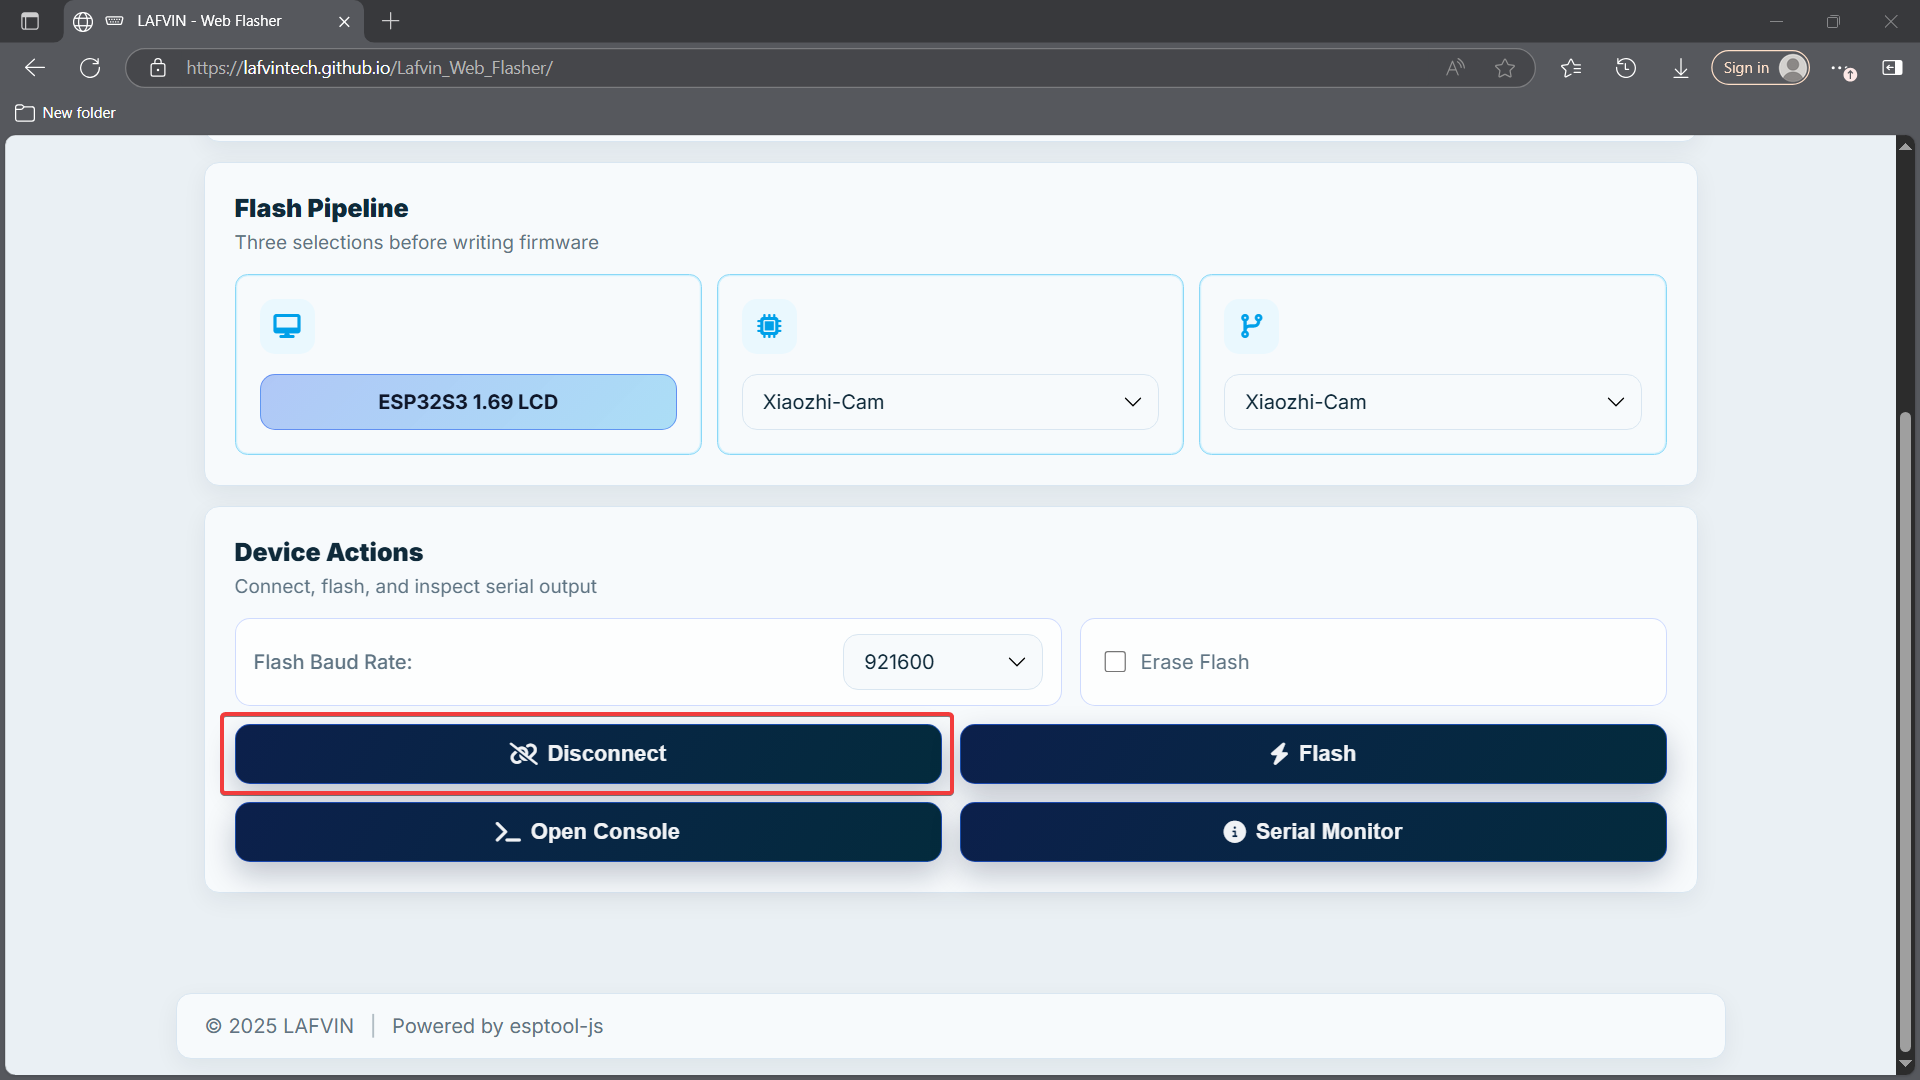
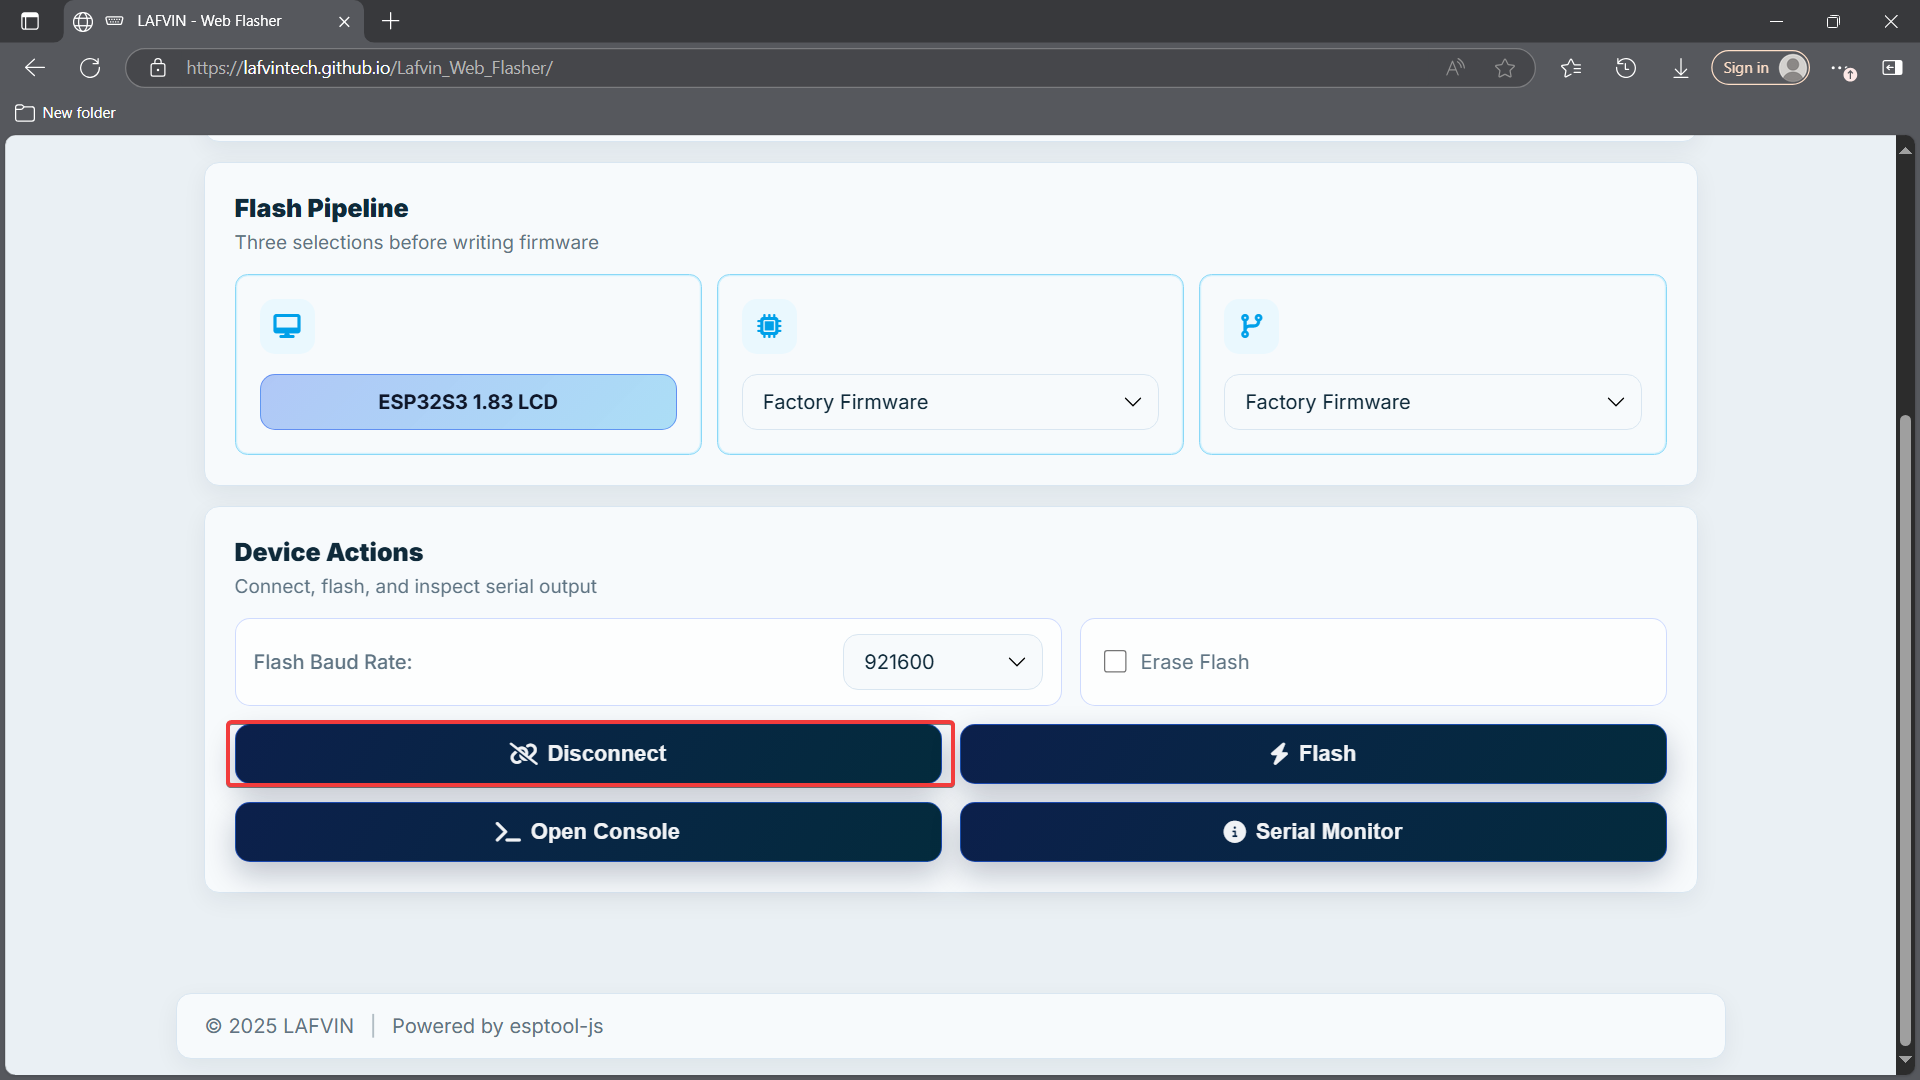
update docs

Changed region(s): [[0.0938, 0.6417, 0.5, 0.7639], [0.6562, 0.3667, 0.7188, 0.3972], [0.4062, 0.3667, 0.4688, 0.3972]]

diff --git a/docs/source/Tutorial/1.quick_start.rst b/docs/source/Tutorial/1.quick_start.rst
@@ -1,113 +1,141 @@
 .. _quick_start:
 
-1. 快速入门
-===========
+1. Quick Start
+==============
 
-本章用于帮助你在收到开发板后，快速确认 ESP32-S3 1.83-inch LCD 是否可以正常工作。
+This chapter helps you quickly check whether the ESP32-S3 1.83-inch LCD
+Development Board is working properly after you receive it.
 
-开发板出厂前通常已经预置出厂测试固件。上电后，屏幕会显示开发板的基础测试信息，
-例如 SD 卡容量、Flash 大小、传感器数据、无线扫描结果、背光等级等内容。通过这些
-信息，你可以先确认屏幕、存储、传感器、无线功能和背光控制是否正常。
+The board is usually preloaded with factory test firmware before shipping.
+After power-on, the LCD shows basic test information, such as SD card capacity,
+Flash size, sensor data, Wi-Fi scan results, backlight level, and other status
+information. These items help you confirm that the display, storage, sensor,
+wireless functions, and backlight control are working.
 
 .. note::
-   本章只是快速入门，用于完成开箱验证和固件体验。如果你想学习完整开发流程，请继续阅读
-   :ref:`Arduino 教程 <arduino_tutorial>`。
+   This chapter is only a quick start for unpacking, functional checking, and
+   firmware testing. To learn the full development workflow, continue with the
+   :ref:`Arduino Tutorial <arduino_tutorial>`.
 
-你可以选择的路径
+Choose Your Path
 ----------------
 
 .. list-table::
    :header-rows: 1
    :widths: 30 45 25
 
-   * - 情况
-     - 建议操作
-     - 跳转
-   * - 新收到的开发板，屏幕可以正常显示测试信息
-     - 先查看出厂测试固件，确认开发板功能是否正常。
-     - 继续阅读本章
-   * - 屏幕没有显示出厂测试界面，或你想恢复出厂测试固件
-     - 使用在线烧录工具重新烧录出厂固件，再验证开发板功能。
+   * - Situation
+     - Recommended Action
+     - Link
+   * - The newly received board displays the factory test screen normally.
+     - Check the factory test firmware first and confirm that the main board
+       functions work properly.
+     - Continue reading this chapter
+   * - The screen does not show the factory test interface, or you want to
+       restore the factory test firmware.
+     - Use the online flashing tool to reflash the factory firmware, then check
+       the board again.
      - :ref:`online_flasher`
-   * - 你想体验其他官方固件
-     - 使用在线烧录工具选择其他固件并烧录。
+   * - You want to try other official firmware.
+     - Use the online flashing tool to select and flash another firmware.
      - :ref:`online_flasher`
 
-准备工作
---------
+Preparation
+-----------
 
-* 使用 USB Type-C 数据线连接开发板。仅供电线可以点亮开发板，但不能用于烧录或串口通信。
-* 如果需要查看串口日志，请确认电脑已经识别到开发板串口。
-* 如果要使用在线烧录工具，请使用支持 Web Serial API 的 Chrome 或 Edge 浏览器。
-* 如果要测试 SD 卡相关信息，请插入套件中附带的 1 GB TF 卡。
+* Connect the board with a USB Type-C data cable. A charging-only cable can
+  power the board, but it cannot be used for flashing or serial communication.
+* If you need to view serial logs, make sure the computer can detect the board's
+  serial port.
+* If you want to use the online flashing tool, use Chrome, Edge, or another
+  browser that supports the Web Serial API.
+* If you want to check SD card information, insert the 1 GB TF card included in
+  the kit.
 
-步骤 1：连接开发板
-------------------
+Step 1: Connect the Board
+-------------------------
 
-1. 使用 USB Type-C 数据线将开发板连接到电脑。
-2. 等待开发板上电启动。
-3. 观察 1.83 英寸 LCD 屏幕是否点亮。
-4. 如果开发板没有立即启动，可以按一次 **RST** 按键重新启动。
+1. Connect the board to your computer with a USB Type-C data cable.
+2. Wait for the board to power on and boot.
+3. Check whether the 1.83-inch LCD turns on.
+4. If the board does not start immediately, press the **RST** button once to
+   restart it.
 
-预期结果
-~~~~~~~~
+Expected Result
+~~~~~~~~~~~~~~~
 
-屏幕应显示出厂测试固件界面。不同批次的固件界面可能略有差异，但通常会包含以下
-一项或多项信息：
+The screen should show the factory test firmware interface. The interface may
+vary slightly between firmware batches, but it usually includes one or more of
+the following items:
 
-* SD 卡容量或 SD 卡检测状态
-* Flash 容量
-* QMI8658A 传感器数据
-* Wi-Fi 无线扫描结果
-* 背光等级或背光调节状态
+* SD card capacity or SD card detection status
+* Flash capacity
+* QMI8658A sensor data
+* Wi-Fi scan results
+* Backlight level or backlight adjustment status
 
-如果这些信息可以正常显示，说明开发板的主要板载功能已经可以工作。
+If this information is displayed correctly, the main onboard functions of the
+development board are working.
 
-步骤 2：恢复出厂测试固件
-------------------------
+Step 2: Restore the Factory Test Firmware
+-----------------------------------------
 
-如果开发板没有显示出厂测试界面，或者你已经烧录过其他程序并想恢复出厂状态，可以使用
-:ref:`online_flasher` 重新烧录出厂测试固件。
+If the board does not show the factory test interface, or if you have already
+flashed another program and want to restore the factory state, use the
+:ref:`online_flasher` to reflash the factory test firmware.
 
-在线烧录适合以下场景：
+Online flashing is suitable for the following situations:
 
-* 恢复出厂测试固件
-* 验证开发板功能是否正常
-* 快速体验官方提供的其他固件
-* 在不安装 Arduino IDE 或 ESP-IDF 的情况下烧录固件
+* Restoring the factory test firmware
+* Checking whether the board functions work properly
+* Quickly trying other official firmware
+* Flashing firmware without installing Arduino IDE or ESP-IDF
 
 .. warning::
-   烧录新固件会覆盖开发板中当前运行的程序。如果你需要保留当前程序，请先确认你拥有对应的
-   源代码或固件文件。
+   Flashing new firmware overwrites the program currently running on the board.
+   If you need to keep the current program, make sure you already have the
+   corresponding source code or firmware file.
 
-步骤 3：进入正式课程
---------------------
+Step 3: Continue with the Tutorials
+-----------------------------------
 
-完成快速验证后，你可以根据自己的开发方式选择后续课程：
+After the quick check is complete, choose the next tutorial according to your
+development path:
 
-* 如果你是初学者，或希望快速上传示例程序，请阅读 :ref:`Arduino 教程 <arduino_tutorial>`。
-* 如果你只想体验不同功能固件，可以继续使用 :ref:`online_flasher` 选择并烧录其他固件。
+* If you are a beginner, or if you want to upload example programs quickly,
+  read the :ref:`Arduino Tutorial <arduino_tutorial>`.
+* If you only want to try different firmware functions, continue using the
+  :ref:`online_flasher` to select and flash other firmware.
 
-常见问题
---------
+FAQ
+---
 
-**屏幕没有显示内容**
+**The screen does not show anything**
 
-* **现象**：连接 USB 后，LCD 没有点亮或没有显示测试界面。
-* **可能原因**：USB 线供电不稳定、开发板未正常启动、出厂固件被覆盖。
-* **解决方法**：更换 USB 数据线，按一次 **RST**，或使用 :ref:`online_flasher`
-  恢复出厂测试固件。
+* **Symptom**: After connecting USB, the LCD does not turn on or does not show
+  the factory test interface.
+* **Possible causes**: The USB cable cannot provide stable power, the board did
+  not boot normally, or the factory firmware has been overwritten.
+* **Solution**: Use another USB data cable, press **RST** once, or restore the
+  factory test firmware with the :ref:`online_flasher`.
 
-**电脑没有识别到串口**
+**The computer does not detect a serial port**
 
-* **现象**：设备管理器或开发工具中没有出现可用串口。
-* **可能原因**：使用了仅供电 USB 线、USB 驱动未安装、USB 口接触不良。
-* **解决方法**：更换 USB Type-C 数据线，尝试其他 USB 接口，并参考 :ref:`preparation`
-  检查开发环境与驱动安装步骤。
+* **Symptom**: No available serial port appears in Device Manager or in the
+  development tool.
+* **Possible causes**: A charging-only USB cable is being used, the USB driver
+  is not installed, or the USB connection is unstable.
+* **Solution**: Use another USB Type-C data cable, try another USB port, and
+  refer to :ref:`preparation` to check the development environment and driver
+  installation steps.
 
-**在线烧录无法连接开发板**
+**The online flasher cannot connect to the board**
 
-* **现象**：浏览器中无法选择串口，或点击连接后失败。
-* **可能原因**：浏览器不支持 Web Serial API、串口被其他软件占用、开发板未进入可烧录状态。
-* **解决方法**：使用 Chrome 或 Edge 浏览器，关闭串口监视器等占用串口的软件；如果仍然失败，
-  按住 **BOOT**，短按 **RST**，松开 **BOOT** 后重新连接并烧录。
+* **Symptom**: The browser cannot select a serial port, or the connection fails
+  after you click Connect.
+* **Possible causes**: The browser does not support the Web Serial API, the
+  serial port is being used by another program, or the board is not in a
+  flashable state.
+* **Solution**: Use Chrome or Edge, close programs that may be using the serial
+  port, such as Serial Monitor. If the problem persists, hold **BOOT**, press
+  **RST** once, release **BOOT**, then reconnect and flash again.

diff --git a/docs/source/Preparation/download_code.rst b/docs/source/Preparation/download_code.rst
@@ -9,14 +9,14 @@ any local libraries required by the ESP32-S3 1.83-inch LCD Development Board.
 
 You can visit our repository to download the code for our course this time.
 
-`Code Repository <https://github.com/lafvintech/LAFVIN-ESP32-S3-Multimedia-Kit.git>`_
+`Code Repository <https://github.com/lafvintech/LAFVIN_ESP32S3_1.83_LCD.git>`_
 
 .. image:: img/download_code.png
 
 Alternatively, you can directly access this (link) in your browser, and it will automatically download the code as a ZIP file.
 
-* :download:`Download Source Code (ZIP) <https://github.com/lafvintech/LAFVIN-ESP32-S3-Multimedia-Kit/archive/refs/heads/main.zip>`
+* :download:`Download Source Code (ZIP) <https://github.com/lafvintech/LAFVIN_ESP32S3_1.83_LCD/archive/refs/heads/main.zip>`
 
-After downloading and extracting the ZIP file, you should have the following four folders and a burn tool zip file.
+After downloading and extracting the ZIP file, you should have the following three folders and a burn tool zip file.
 
 .. image:: img/unzip.png

diff --git a/docs/source/Appendix/online_flasher.rst b/docs/source/Appendix/online_flasher.rst
@@ -24,15 +24,15 @@ Flashing Steps
 
    .. image:: img/olf2.png
 
-#. Select your kit or device model.for example, "ESP32-S3 Multimedia Kit".
+#. Select your kit or device model.for example, "ESP32S3 1.83 LCD".
 
    .. image:: img/olf3.png
 
-#. Select the firmware to flash.In this kit, we have selected “ALL-IN-ONE”
+#. Select the firmware to flash.In this kit, we have selected "Factory Firmware”
 
    .. image:: img/olf4.png
 
-#. Select the firmware version.In this kit, we have selected “ALL-IN-ONE”
+#. Select the firmware version.In this kit, we have selected “Factory Firmware”
 
    .. image:: img/olf5.png
 
